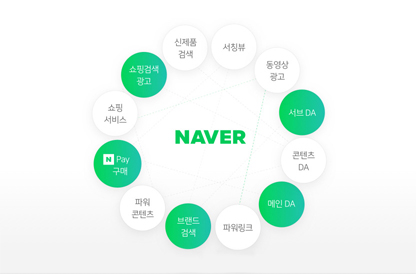
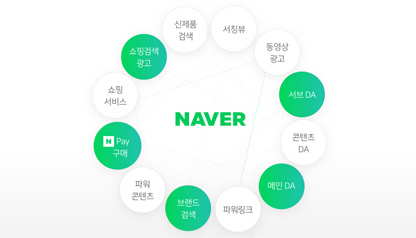
서브 - 애드시너지 수정

diff --git a/html/ad-synergies-detail.html b/html/ad-synergies-detail.html
@@ -190,7 +190,7 @@
                         <ul class="list-box">
                             <li class="item">
                                 <a href="#" class="link">
-                                    <img src="../image/ad-box-cont-img02.jpg" alt="꿈꾸는이웃">
+                                    <img src="../image/ad-box-cont-img02.jpg" alt="서비스와의 연계를 통한 시너지 극대화">
                                     <div class="text-area">
                                         <span class="copy">서비스와의 연계를 통한 시너지 극대화</span>
                                         <p class="desc">광고 효과의 증폭을 위한 구매여정 종착지 설계</p>
@@ -199,7 +199,7 @@
                             </li>
                             <li class="item">
                                 <a href="#" class="link">
-                                    <img src="../image/ad-box-cont-img03.jpg" alt="꿈꾸는이웃">
+                                    <img src="../image/ad-box-cont-img03.jpg" alt="AD SYNERGY">
                                     <div class="text-area">
                                         <span class="copy">AD SYNERGY</span>
                                         <p class="desc">브랜딩에서 전환까지, 구매여정을 관통하는 네이버 메인DA의 시너지 효과</p>
@@ -208,7 +208,7 @@
                             </li>
                             <li class="item">
                                 <a href="#" class="link">
-                                    <img src="../image/ad-box-cont-img04.jpg" alt="꿈꾸는이웃">
+                                    <img src="../image/ad-box-cont-img04.jpg" alt="시너지 ROI">
                                     <div class="text-area">
                                         <span class="copy">시너지 ROI</span>
                                         <p class="desc">시너지 모형으로 메인DA의 ROI 다시 계산하기</p>

diff --git a/css/style-detail.css b/css/style-detail.css
@@ -123,7 +123,8 @@
 
 .sub-container .detail-content .blod {
     font-weight: 700;
-    font-family: 'NanumSquare';
+    font-family: 'NanumSquareR';
+    letter-spacing: -0.8px;
 }
 
 .sub-container .detail-content .desc .blod {
@@ -321,6 +322,9 @@
     letter-spacing: -0.6px;
     display: block;
     margin-bottom: 13px;
+    white-space: nowrap;
+    overflow: hidden;
+    text-overflow: ellipsis;
 }
 
 .different .box-wrap .list-box .text-area .desc {
